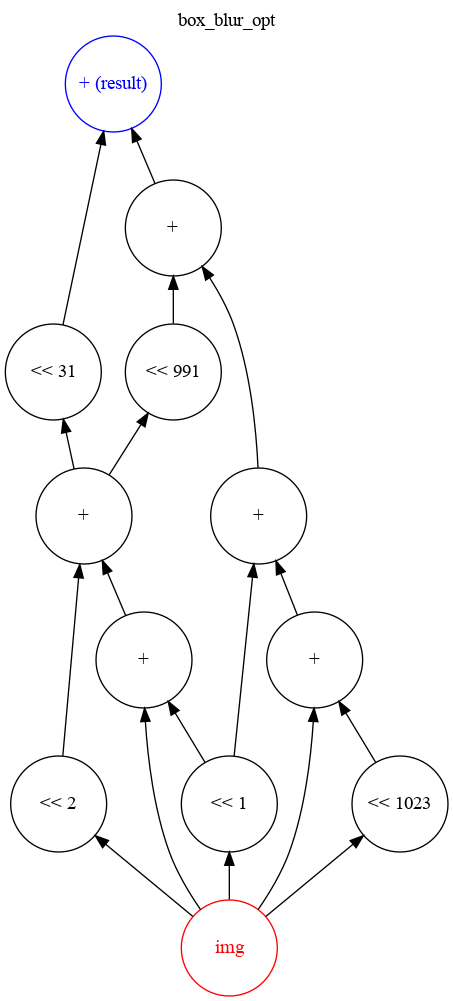
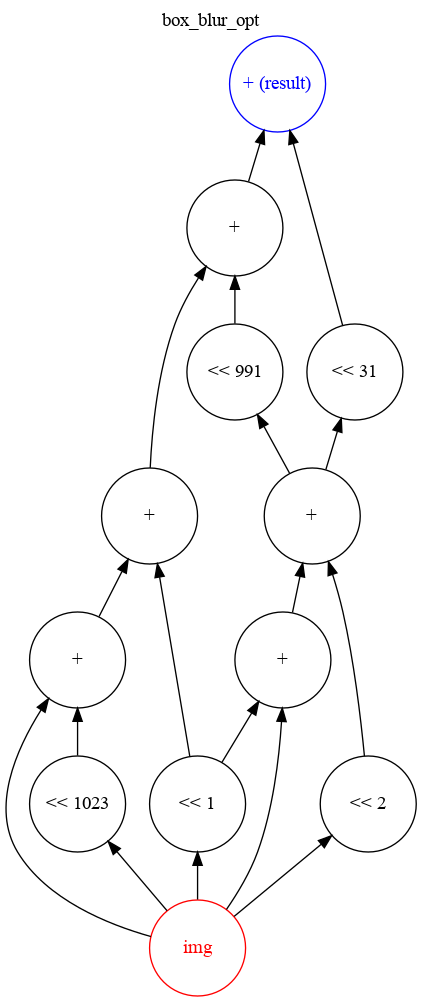
edit box blur naive implementation

diff --git a/benchmarks/box_blur/he/gen_he_box_blur_noopt.cpp b/benchmarks/box_blur/he/gen_he_box_blur_noopt.cpp
@@ -17,28 +17,56 @@ const RelinKeys &relin_keys,
 const GaloisKeys &galois_keys)
 {
 Ciphertext c1 = encrypted_inputs.at("img");
+size_t slot_count = encoder.slot_count();
+Plaintext p24;
+encoder.encode(vector<std::uint64_t>(slot_count, 1), p24);
+Plaintext p27;
+encoder.encode(vector<std::uint64_t>(slot_count, 1), p27);
+Plaintext p14;
+encoder.encode(vector<std::uint64_t>(slot_count, 1), p14);
+Plaintext p10;
+encoder.encode(vector<std::uint64_t>(slot_count, 1), p10);
+Plaintext p20;
+encoder.encode(vector<std::uint64_t>(slot_count, 1), p20);
+Plaintext p7;
+encoder.encode(vector<std::uint64_t>(slot_count, 1), p7);
+Plaintext p30;
+encoder.encode(vector<std::uint64_t>(slot_count, 1), p30);
+Plaintext p17;
+encoder.encode(vector<std::uint64_t>(slot_count, 1), p17);
+Plaintext p4;
+encoder.encode(vector<std::uint64_t>(slot_count, 1), p4);
 Ciphertext c2;
-evaluator.rotate_rows(c1, 991, galois_keys, c2);
-Ciphertext c3;
-evaluator.rotate_rows(c1, 992, galois_keys, c3);
-evaluator.add(c2, c3, c2);
-evaluator.rotate_rows(c1, 993, galois_keys, c3);
-evaluator.add(c2, c3, c2);
-evaluator.rotate_rows(c1, 1023, galois_keys, c3);
-evaluator.add(c3, c1, c3);
-Ciphertext c9;
-evaluator.rotate_rows(c1, 1, galois_keys, c9);
-evaluator.add(c3, c9, c3);
-evaluator.add(c2, c3, c2);
-evaluator.rotate_rows(c1, 31, galois_keys, c3);
-evaluator.rotate_rows(c1, 32, galois_keys, c9);
-evaluator.add(c3, c9, c3);
-evaluator.rotate_rows(c1, 33, galois_keys, c1);
-evaluator.add(c3, c1, c3);
-evaluator.add(c2, c3, c2);
-encrypted_outputs.emplace("result", move(c2));
+evaluator.rotate_rows(c1, 992, galois_keys, c2);
+Ciphertext c5;
+evaluator.rotate_rows(c2, 1023, galois_keys, c5);
+evaluator.multiply_plain(c5, p4, c5);
+Ciphertext c37;
+evaluator.multiply_plain(c2, p7, c37);
+evaluator.add(c5, c37, c5);
+evaluator.rotate_rows(c2, 1, galois_keys, c2);
+evaluator.multiply_plain(c2, p10, c2);
+evaluator.add(c5, c2, c5);
+evaluator.rotate_rows(c1, 1023, galois_keys, c2);
+evaluator.multiply_plain(c2, p14, c2);
+evaluator.multiply_plain(c1, p17, c37);
+evaluator.add(c2, c37, c2);
+evaluator.rotate_rows(c1, 1, galois_keys, c37);
+evaluator.multiply_plain(c37, p20, c37);
+evaluator.add(c2, c37, c2);
+evaluator.add(c5, c2, c5);
+evaluator.rotate_rows(c1, 32, galois_keys, c1);
+evaluator.rotate_rows(c1, 1023, galois_keys, c2);
+evaluator.multiply_plain(c2, p24, c2);
+evaluator.multiply_plain(c1, p27, c37);
+evaluator.add(c2, c37, c2);
+evaluator.rotate_rows(c1, 1, galois_keys, c1);
+evaluator.multiply_plain(c1, p30, c1);
+evaluator.add(c2, c1, c2);
+evaluator.add(c5, c2, c5);
+encrypted_outputs.emplace("result", move(c5));
 }
 
 vector<int> get_rotation_steps_box_blur_noopt(){
-return vector<int>{991, 992, 993, 31, 1023, 1, 32, 33};
+return vector<int>{992, 1023, 1, 32};
 }

diff --git a/benchmarks/box_blur/box_blur_checks.cpp b/benchmarks/box_blur/box_blur_checks.cpp
@@ -6,16 +6,21 @@
 #include <ostream>
 #include <stdexcept>
 #include <string>
+#include <vector>
 
 using namespace std;
 using namespace fheco;
 
 void box_blur(size_t width)
 {
+  vector<vector<integer>> kernel = {{1, 1, 1}, {1, 1, 1}, {1, 1, 1}};
   Ciphertext img("img", 0, 255);
-  Ciphertext top_sum = (img >> (width + 1)) + (img >> width) + (img >> (width - 1));
-  Ciphertext curr_sum = (img >> 1) + img + (img << 1);
-  Ciphertext bottom_sum = (img << (width - 1)) + (img << width) + (img << (width + 1));
+  Ciphertext top_row = img >> width;
+  Ciphertext bottom_row = img << width;
+  Ciphertext top_sum = kernel[0][0] * (top_row >> 1) + kernel[0][1] * top_row + kernel[0][2] * (top_row << 1);
+  Ciphertext curr_sum = kernel[1][0] * (img >> 1) + kernel[1][1] * img + kernel[1][2] * (img << 1);
+  Ciphertext bottom_sum =
+    kernel[2][0] * (bottom_row >> 1) + kernel[2][1] * bottom_row + kernel[2][2] * (bottom_row << 1);
   Ciphertext result = top_sum + curr_sum + bottom_sum;
   result.set_output("result");
 }
@@ -23,11 +28,9 @@ void box_blur(size_t width)
 void box_blur_baseline(size_t width)
 {
   Ciphertext img("img", 0, 255);
-  Ciphertext top_row = img >> width;
-  Ciphertext bottom_row = img << width;
-  Ciphertext top_sum = (top_row >> 1) + top_row + (top_row << 1);
+  Ciphertext top_sum = (img >> (width + 1)) + (img >> width) + (img >> (width - 1));
   Ciphertext curr_sum = (img >> 1) + img + (img << 1);
-  Ciphertext bottom_sum = (bottom_row >> 1) + bottom_row + (bottom_row << 1);
+  Ciphertext bottom_sum = (img << (width - 1)) + (img << width) + (img << (width + 1));
   Ciphertext result = top_sum + curr_sum + bottom_sum;
   result.set_output("result");
 }

diff --git a/benchmarks/box_blur/he/gen_he_box_blur_opt.cpp b/benchmarks/box_blur/he/gen_he_box_blur_opt.cpp
@@ -16,25 +16,25 @@ const Evaluator &evaluator,
 const RelinKeys &relin_keys,
 const GaloisKeys &galois_keys)
 {
-Ciphertext c18 = encrypted_inputs.at("img");
-Ciphertext c26;
-evaluator.rotate_rows(c18, 1, galois_keys, c26);
-Ciphertext c35;
-evaluator.add(c18, c26, c35);
-Ciphertext c37;
-evaluator.rotate_rows(c18, 2, galois_keys, c37);
-evaluator.add(c35, c37, c35);
-evaluator.rotate_rows(c35, 31, galois_keys, c37);
-Ciphertext c24;
-evaluator.rotate_rows(c18, 1023, galois_keys, c24);
-evaluator.add(c18, c24, c18);
-evaluator.add(c18, c26, c18);
-evaluator.rotate_rows(c35, 991, galois_keys, c35);
-evaluator.add(c18, c35, c18);
-evaluator.add(c37, c18, c37);
-encrypted_outputs.emplace("result", move(c37));
+Ciphertext c45 = encrypted_inputs.at("img");
+Ciphertext c60;
+evaluator.rotate_rows(c45, 1, galois_keys, c60);
+Ciphertext c73;
+evaluator.add(c45, c60, c73);
+Ciphertext c76;
+evaluator.rotate_rows(c45, 2, galois_keys, c76);
+evaluator.add(c73, c76, c73);
+evaluator.rotate_rows(c73, 991, galois_keys, c76);
+Ciphertext c56;
+evaluator.rotate_rows(c45, 1023, galois_keys, c56);
+evaluator.add(c45, c56, c45);
+evaluator.add(c60, c45, c60);
+evaluator.add(c76, c60, c76);
+evaluator.rotate_rows(c73, 31, galois_keys, c73);
+evaluator.add(c76, c73, c76);
+encrypted_outputs.emplace("result", move(c76));
 }
 
 vector<int> get_rotation_steps_box_blur_opt(){
-return vector<int>{1, 2, 31, 1023, 991};
+return vector<int>{1, 2, 991, 1023, 31};
 }

diff --git a/benchmarks/box_blur/box_blur.cpp b/benchmarks/box_blur/box_blur.cpp
@@ -7,16 +7,21 @@
 #include <ostream>
 #include <stdexcept>
 #include <string>
+#include <vector>
 
 using namespace std;
 using namespace fheco;
 
 void box_blur(size_t width)
 {
+  vector<vector<integer>> kernel = {{1, 1, 1}, {1, 1, 1}, {1, 1, 1}};
   Ciphertext img("img", 0, 255);
-  Ciphertext top_sum = (img >> (width + 1)) + (img >> width) + (img >> (width - 1));
-  Ciphertext curr_sum = (img >> 1) + img + (img << 1);
-  Ciphertext bottom_sum = (img << (width - 1)) + (img << width) + (img << (width + 1));
+  Ciphertext top_row = img >> width;
+  Ciphertext bottom_row = img << width;
+  Ciphertext top_sum = kernel[0][0] * (top_row >> 1) + kernel[0][1] * top_row + kernel[0][2] * (top_row << 1);
+  Ciphertext curr_sum = kernel[1][0] * (img >> 1) + kernel[1][1] * img + kernel[1][2] * (img << 1);
+  Ciphertext bottom_sum =
+    kernel[2][0] * (bottom_row >> 1) + kernel[2][1] * bottom_row + kernel[2][2] * (bottom_row << 1);
   Ciphertext result = top_sum + curr_sum + bottom_sum;
   result.set_output("result");
 }
